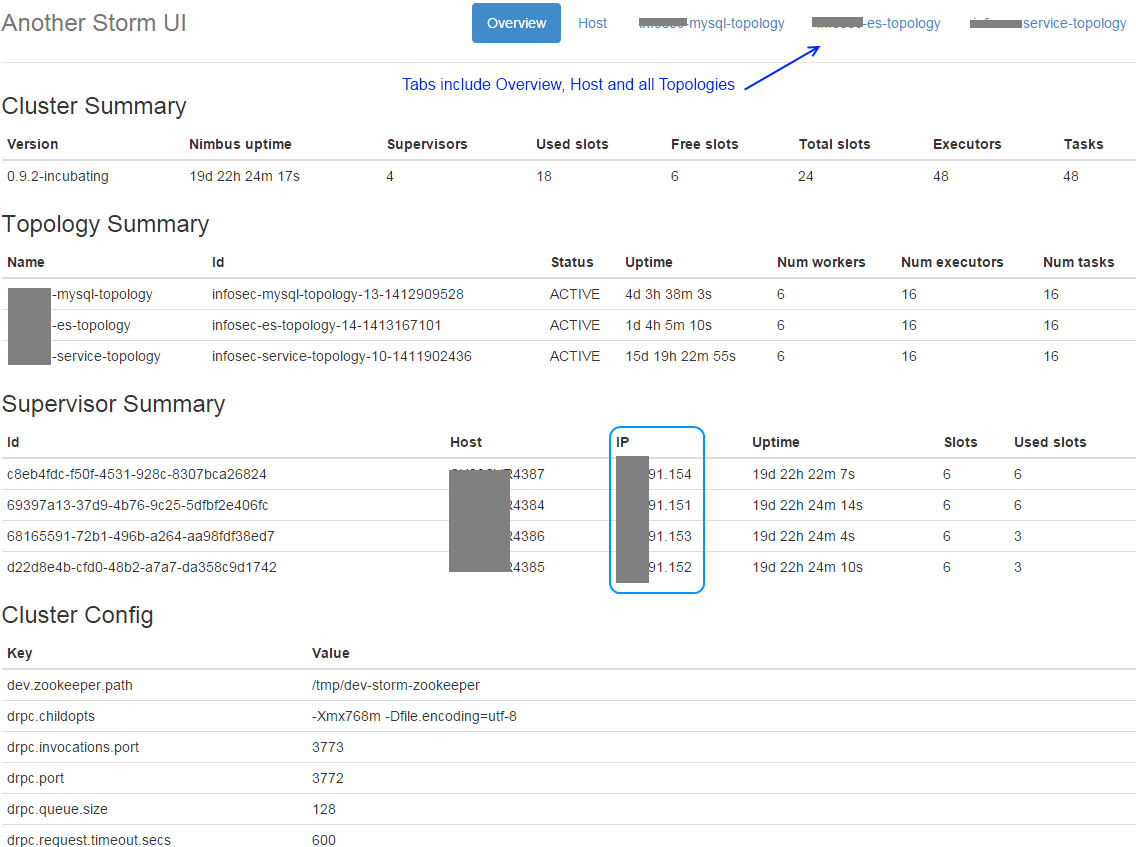
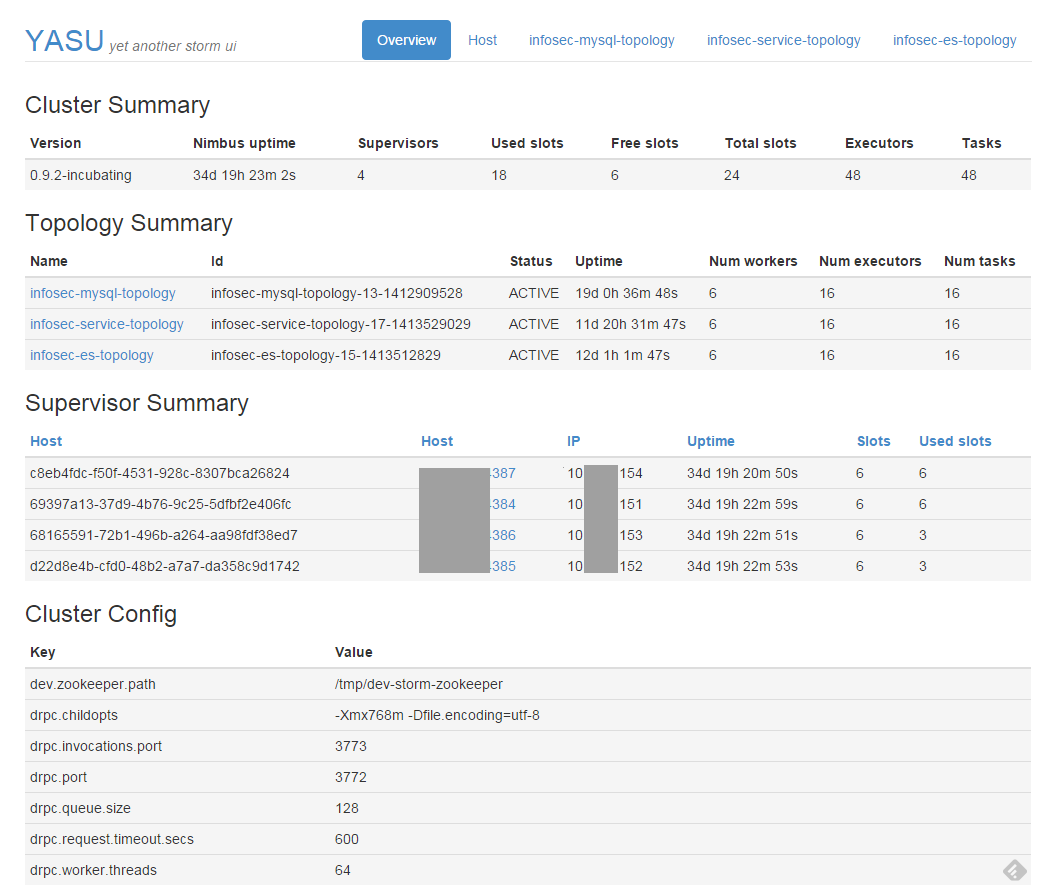
update readme

diff --git a/yet-another-storm-ui/app/index.html b/yet-another-storm-ui/app/index.html
@@ -8,7 +8,7 @@
     <!-- Place favicon.ico and apple-touch-icon.png in the root directory -->
     <!-- build:css(.) styles/vendor.css -->
     <!-- bower:css -->
-    <link rel="stylesheet" href="bower_components/bootstrap/dist/css/bootstrap.css"/>
+    <link rel="stylesheet" href="bower_components/bootstrap/dist/css/bootstrap.css" />
     <!-- endbower -->
     <!-- endbuild -->
     <!-- build:css(.tmp) styles/main.css -->
@@ -24,7 +24,8 @@
 
 <!-- Add your site or application content here -->
 <div class="container" ng-controller="TabCtrl"
-     style="margin: 10px 10px 10px 10px ; width: 100%; border: 10px 10px 10px 10px ; ">
+     style="margin: 0 0 0 10px ; width: 99%; border: 0 0 0 10px ; ">
+    <!--style="margin: 10px 0 10px 10px ; width: 100%; border: 10px 0 10px 10px ; ">-->
     <div class="header">
         <ul class="nav nav-pills pull-right">
             <!--<li class="active"><a ng-href="#">Home</a></li>-->
@@ -35,7 +36,10 @@
                 <a ng-href="#{{tab.tabLink}}?tabName={{tab.tabName}}&tabId={{tab.tabId}}">{{tab.tabName}}</a>
             </li>
         </ul>
-        <div class="text-muted"><span class="title-font">YASU</span>
+        <div class="text-muted">
+            <a href="https://github.com/deepnighttwo/yet-another-storm-ui" target="_blank">
+            <span class="title-font">YASU</span>
+            </a>
             <span><i>yet another storm ui</i></span></div>
     </div>
 

diff --git a/yet-another-storm-ui/app/styles/main.css b/yet-another-storm-ui/app/styles/main.css
@@ -139,5 +139,5 @@ ol {
 }
 
 .title-font {
-    font-size: 150%;
+    font-size: 210%;
 }

diff --git a/README.md b/README.md
@@ -5,15 +5,17 @@ yet another storm ui based on storm ui rest api release with 0.9.2
 
 # Introduction
 
-Origin storm ui is not handly for some cases. Thanks for the 0.9.2 release brings out the rest api which is the footstone of this project.
+Origin storm ui is not handy for some cases. Thanks for the 0.9.2 release brings out the rest api which is the footstone of this project.
 
-This project is trying to build another ui for storm. 
+This project is trying to build yet another ui for storm. 
 
 # About the UI
 
 The new storm ui is still web-based. Instead of using links, it will use tabs to list top-level content. There are "Overview" tab, "Host" tab and topology tab(s).
 
 Tabs are listed on the right-top of the page. The following is details about the tabs.
+
+ ![image](https://raw.githubusercontent.com/deepnighttwo/yet-another-storm-ui/master/README.img/head.png)
 
 ## Overview tab
 
@@ -30,7 +32,7 @@ Here is the snapshot
 
 Host tab is new to storm origin ui. It list status start from host perspective. 
 
-This tab shows host status in the folling order:
+This tab shows host status in the following order:
 
 + Host
  - Slots status on the Host (Process)
@@ -42,19 +44,46 @@ One new status planning to be added to this tab is the restart times of an compo
 
 Here is the snapshot
 
- ![image](https://raw.githubusercontent.com/deepnighttwo/yet-another-storm-ui/master/README.img/host.png)
+ ![image](https://raw.githubusercontent.com/deepnighttwo/yet-another-storm-ui/master/README.img/hosts.png)
 
 
 # Topology tab(s)
 
 Each topology is listed as a tab. 
 
-Key points of the tab:
+There are six parts on topology tab
 
-* Try to show the topology on one page. There is no need to click links to see the bolt/spout status
-* Diff topo configs with storm cluster's config. Hightlights the different configs
-* Kill topology is not supported
+First two is Topology summary and Topology stats:
 
+ ![image](https://raw.githubusercontent.com/deepnighttwo/yet-another-storm-ui/master/README.img/topology-1.png)
+
+Theses are the same as storm default. 
+
+Then the spout part:
+
+ ![image](https://raw.githubusercontent.com/deepnighttwo/yet-another-storm-ui/master/README.img/topo-spout-1.png)
+
+In this part, some key columns uses different background color. And there is a detail button to show the details of the spout:
+ 
+ ![image](https://raw.githubusercontent.com/deepnighttwo/yet-another-storm-ui/master/README.img/topo-spout-2.png)
+
+Basically this part comes from spout page of origin storm ui but tighter.
+ 
+ * Shows status of 10 minutes only. Mostly that is what should be cared about for a real-time system.
+ * Skip the empty part. For example, if there is no error, there will be no error table rather than show an empty one.
+ * Add host IP of executor.
+ * Shorten system component name. For example, metrics component's name is full class name which is too long to show. Now it is shorten to "__" plus "class short name".
+ 
+Then the bolt part. The change is quite the same as spout:
+
+ ![image](https://raw.githubusercontent.com/deepnighttwo/yet-another-storm-ui/master/README.img/topo-bolt-1.png)
+
+Finally comes the config parts. It is separated to two parts, "Different configs from default" and "Same configs with default".  
+
+ ![image](https://raw.githubusercontent.com/deepnighttwo/yet-another-storm-ui/master/README.img/topo-config.png)
+ 
+
+PS: Topology actions are not supported for now. This might be supported together with ACL.
 
 # How to use
 
@@ -69,7 +98,7 @@ user send request to yet-another-storm-ui, yet-another-storm-ui request data fro
 Threre are two files to be configed. 
 
 * yet-another-storm-ui-server/src/main/resources/conf.properties: set asu.restapilocation to be a correct storm rest api endpoint
-* yet-another-storm-ui/app/scripts/app.js: line 24, set "$http.get("http://10.8.91.154:8080/asu/" + restPath);" to be the location where yet-another-storm-ui-server runs
+* yet-another-storm-ui/app/scripts/app.js: line 37, set "$http.get("http://[IP_OF_YASU_SERVER]:8080/asu/" + restPath);" to be the location where yet-another-storm-ui-server runs
 
 
 ## Compile&Deploy
